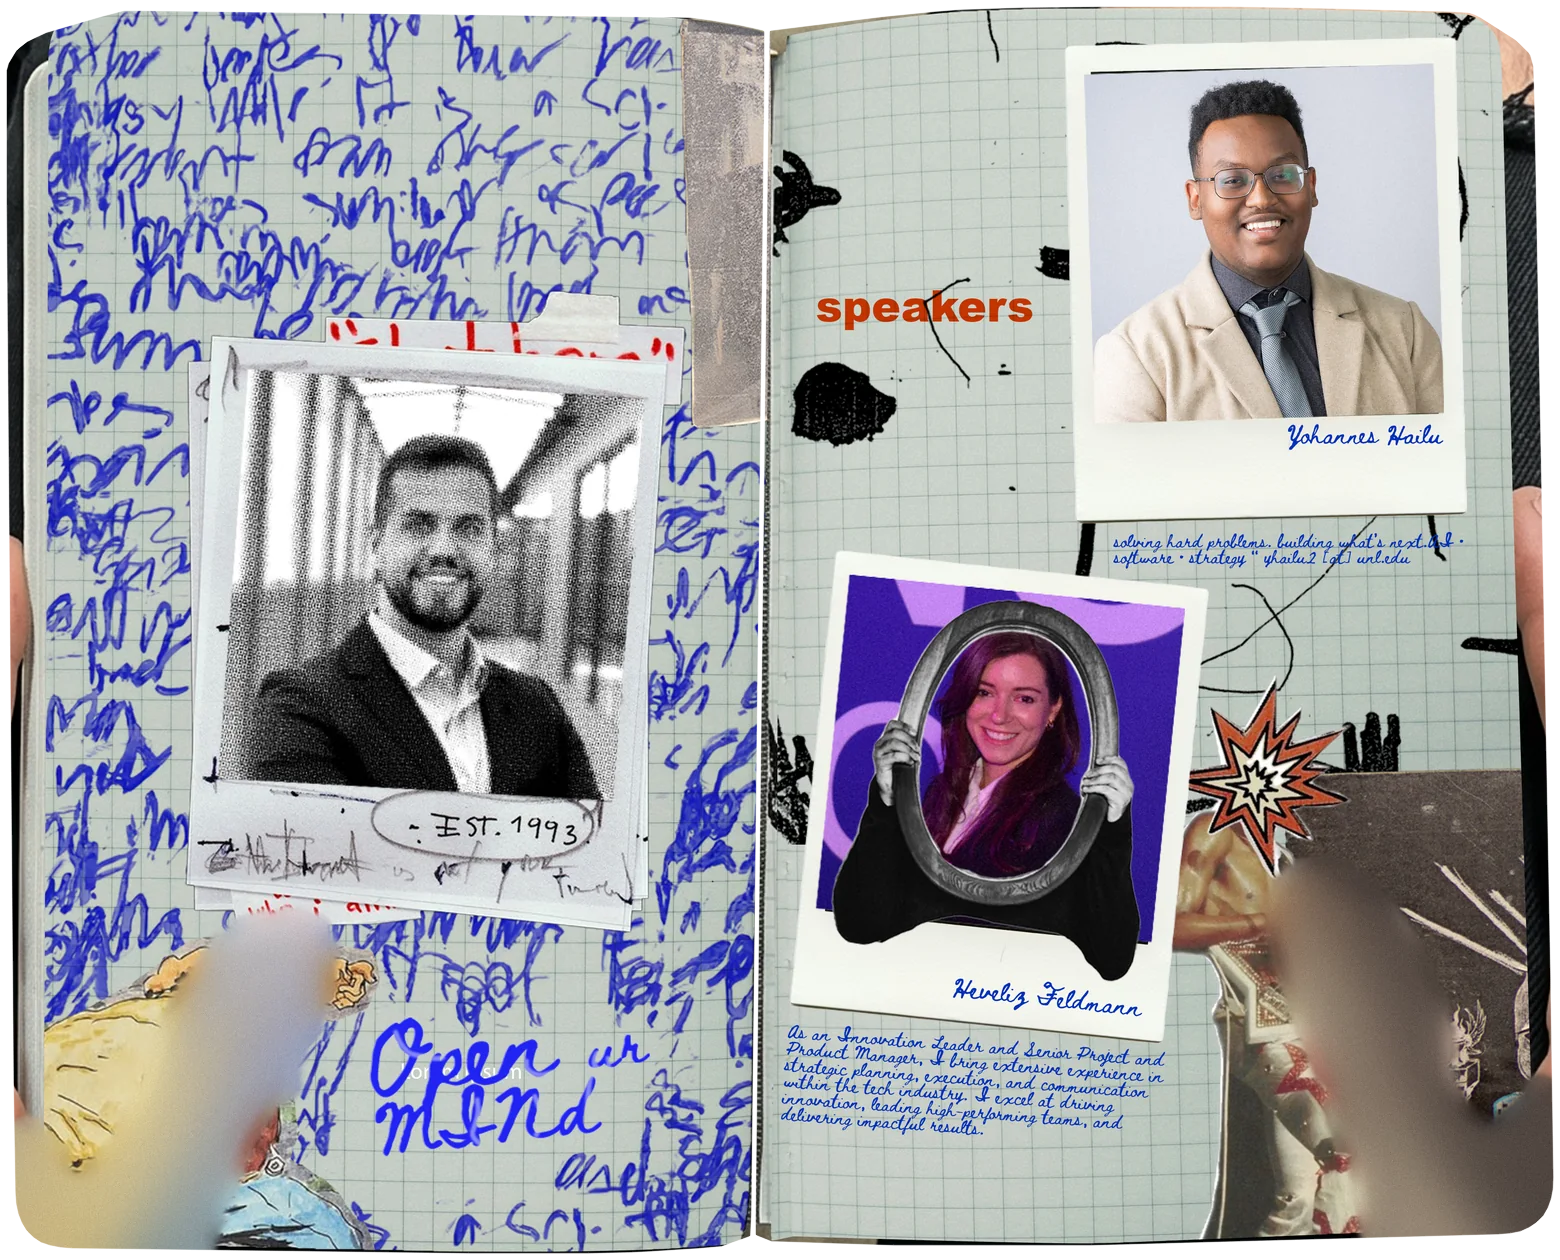
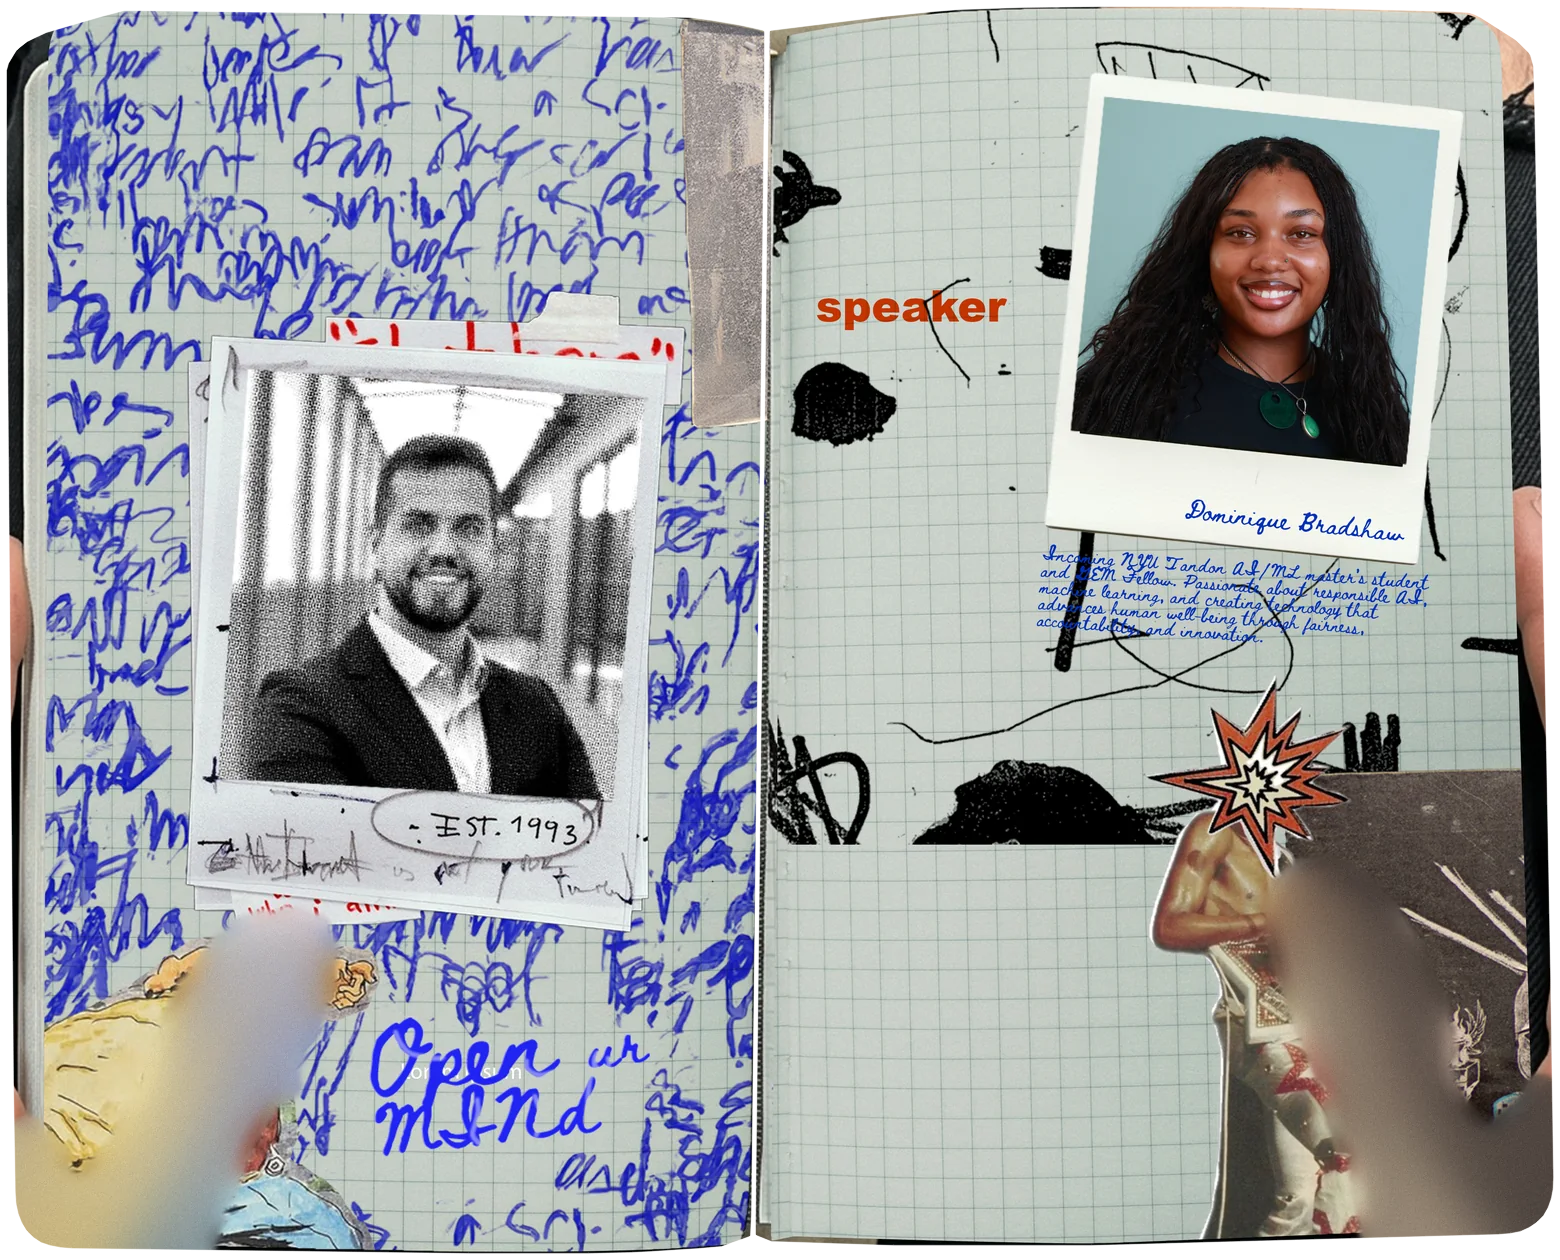
Replace Yohannes and Heveliz with Dominique Bradshaw on Speakers
- Rebuild spread-2 from the new notebook2-dominique artwork
- Add the high-res Dominique polaroid for the zoom; drop the old two
- Zoom label: "Dominique Bradshaw" with subtitle "WHO DOES THE MODEL MISS?"
- Bump asset/script versions so returning visitors get the new spread

Changed region(s): [[0.4923, 0.031, 0.9538, 0.8976]]

diff --git a/js/extras.js b/js/extras.js
@@ -16,10 +16,8 @@
   const PHOTOS = [
     { id: 'topofmind', label: 'Top of Mind', box: [170, 318, 690, 945],
       quad: [[200, 333], [670, 342], [660, 928], [185, 885]] },
-    { id: 'yohannes', label: 'Yohannes Hailu', sub: 'Sciens AI GFGB PoC', box: [1050, 28, 1482, 532],
-      quad: [[1065, 47], [1465, 40], [1467, 512], [1080, 517]] },
-    { id: 'heveliz', label: 'Heveliz “Heve”\nFeldmann', sub: 'HOW TO BE CRAZY WITHOUT GETTING CRAZY?', box: [776, 536, 1222, 1054],
-      quad: [[830, 550], [1207, 588], [1182, 1042], [790, 1003]] },
+    { id: 'dominique', label: 'Dominique\nBradshaw', sub: 'WHO DOES THE MODEL MISS?', box: [1030, 58, 1478, 560],
+      quad: [[1090, 73], [1462, 112], [1417, 544], [1045, 505]] },
   ];
 
   // Cut out of spread-1 (percent of the zine: left, top, width, height), bottom to top.

diff --git a/js/zine.js b/js/zine.js
@@ -12,7 +12,7 @@
     { spread: 1, title: 'Round Table' },
     { spread: 1, flyer: true, title: 'The GfGb Method' },
   ];
-  const SPREADS = ['assets/spread-0.webp?v=2', 'assets/spread-1.webp', 'assets/spread-2.webp?v=2'];
+  const SPREADS = ['assets/spread-0.webp?v=2', 'assets/spread-1.webp', 'assets/spread-2.webp?v=3'];
   const PRELOAD = [...SPREADS, 'assets/bg.webp', 'assets/hands.webp', 'assets/flyer.webp'];
 
   /* ------------------------------------------------------------------

diff --git a/index.html b/index.html
@@ -68,8 +68,8 @@
 
   <div class="loader" id="loader">loading zine<span class="caret">_</span></div>
 
-  <script src="js/zine.js?v=2"></script>
-  <script src="js/extras.js?v=3"></script>
+  <script src="js/zine.js?v=3"></script>
+  <script src="js/extras.js?v=4"></script>
   <script src="js/player.js?v=3"></script>
   <script src="https://open.spotify.com/embed/iframe-api/v1" async></script>
 </body>
